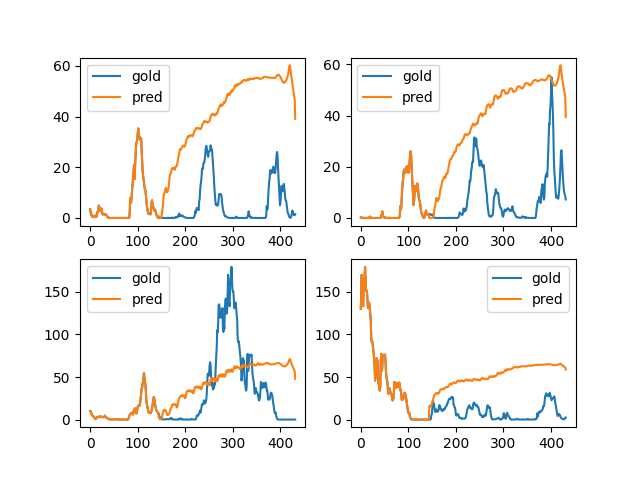
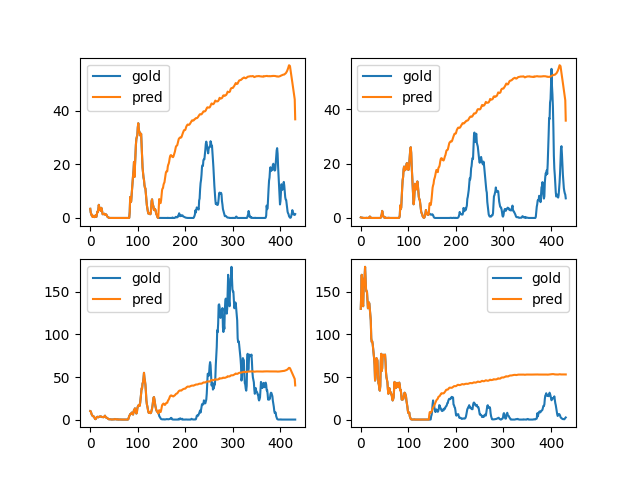
📦 add new model

diff --git a/KDD2022_WPF/wpf_model_ac.py b/KDD2022_WPF/wpf_model_ac.py
@@ -81,8 +81,8 @@ class TransformerDecoderLayer(nn.Layer):
 
         self.decomp = SeriesDecomp(DECOMP)
 
-        # self.self_attn = nn.MultiHeadAttention(d_model, nhead)
-        self.self_attn = AutoCorrelationLayer(
+        self.self_attn = nn.MultiHeadAttention(d_model, nhead)
+        self.auto_attn = AutoCorrelationLayer(
             AutoCorrelation(
                 mask_flag=False, 
                 factor=factor, 
@@ -95,17 +95,17 @@ class TransformerDecoderLayer(nn.Layer):
         )
 
         # self.cross_attn = nn.MultiHeadAttention(d_model, nhead)
-        self.cross_attn = AutoCorrelationLayer(
-            AutoCorrelation(
-                mask_flag=False,  # should be True in original AutoFormer
-                factor=factor, 
-                scale=None, 
-                attention_dropout=attn_dropout, 
-                output_attention=False
-            ),
-            d_model,
-            nhead
-        )
+        # self.cross_attn = AutoCorrelationLayer(
+        #     AutoCorrelation(
+        #         mask_flag=False,  # should be True in original AutoFormer
+        #         factor=factor, 
+        #         scale=None, 
+        #         attention_dropout=attn_dropout, 
+        #         output_attention=False
+        #     ),
+        #     d_model,
+        #     nhead
+        # )
 
         self.linear1 = nn.Linear(d_model, dims_feedforward)
         self.dropout = nn.Dropout(act_dropout, mode="upscale_in_train")
@@ -120,14 +120,17 @@ class TransformerDecoderLayer(nn.Layer):
 
     def forward(self, src, memory, src_mask=None, cache=None):
         residual = src
-        src = self.self_attn(src, src, src, None)
-        src = residual + self.dropout1(src)
+        self_attn_src = self.self_attn(src, src, src, None)
+        auto_attn_src = self.auto_attn(src, src, src, None)
+        src = residual + self.dropout1(self_attn_src) + self.dropout1(auto_attn_src)
 
         src, trend1 = self.decomp(src)
 
         residual = src
-        src = self.self_attn(src, memory, memory, None)
-        src = residual + self.dropout1(src)
+        # src = self.self_attn(src, memory, memory, None)
+        self_attn_src = self.self_attn(src, memory, memory, None)
+        auto_attn_src = self.auto_attn(src, memory, memory, None)
+        src = residual + self.dropout1(self_attn_src) + self.dropout1(auto_attn_src)
 
         src, trend2 = self.decomp(src)
         #    pass
@@ -176,8 +179,8 @@ class TransformerEncoderLayer(nn.Layer):
 
         self.decomp = SeriesDecomp(DECOMP)
 
-        # self.self_attn = nn.MultiHeadAttention(d_model, nhead)
-        self.self_attn = AutoCorrelationLayer(
+        self.self_attn = nn.MultiHeadAttention(d_model, nhead)
+        self.auto_attn = AutoCorrelationLayer(
             AutoCorrelation(
                 mask_flag=False, 
                 factor=factor, 
@@ -199,8 +202,11 @@ class TransformerEncoderLayer(nn.Layer):
 
     def forward(self, src, src_mask=None, cache=None):
         residual = src
-        src = self.self_attn(src, src, src, None)
-        src = residual + self.dropout1(src)
+        self_attn_src = self.self_attn(src, src, src, None)
+        auto_attn_src = self.auto_attn(src, src, src, None)
+        src = residual + self.dropout1(self_attn_src) + self.dropout1(auto_attn_src)
+        # src = self.self_attn(src, src, src, None)
+        # src = residual + self.dropout1(src)
 
         src, _ = self.decomp(src)
 

diff --git a/KDD2022_WPF/main.py b/KDD2022_WPF/main.py
@@ -327,7 +327,7 @@ def seed(seed=42000):
 if __name__ == "__main__":
     seed(2022)
     parser = argparse.ArgumentParser(description='main')
-    parser.add_argument("--conf", type=str, default="./config/config_clear_st_18.yaml")
+    parser.add_argument("--conf", type=str, default="./config/wpf/config_clear_wpformer20.yaml")
     args = parser.parse_args()
     config = edict(yaml.load(open(args.conf), Loader=yaml.FullLoader))
     _create_if_not_exist(config.output_path + '/')

diff --git a/KDD2022_WPF/predict.py b/KDD2022_WPF/predict.py
@@ -123,7 +123,7 @@ def save_std_mean(train_data, output_path):
 
 if __name__ == "__main__":
     parser = argparse.ArgumentParser(description='main')
-    parser.add_argument("--conf", type=str, default="./config/config_clear_st_18.yaml")
+    parser.add_argument("--conf", type=str, default="./config/wpf/config_clear_wpformer20.yaml")
     args = parser.parse_args()
     config = edict(yaml.load(open(args.conf), Loader=yaml.FullLoader))
 
